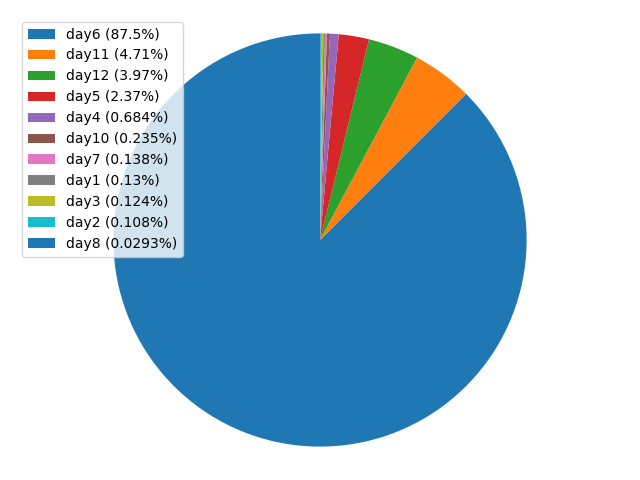
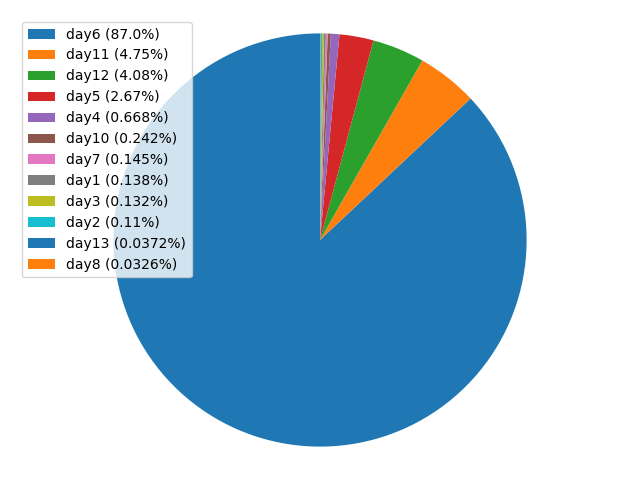
day 13

diff --git a/aoc/days/day13.py b/aoc/days/day13.py
@@ -1,0 +1,122 @@
+from pathlib import Path
+from aoc.util import read, file, bench, env
+
+CURR_DAY: int = 13
+INPUT_FILE_PATH: Path = file.input_path(CURR_DAY)
+TEST_FILE_PATH: Path = file.test_path(CURR_DAY)
+ONLY_TESTS: bool = env.is_set("TEST")
+
+
+class Machine:
+
+    def __init__(self) -> None:
+        # uninizialized
+        self.a: tuple[int, int] = (0, 0)
+        self.b: tuple[int, int] = (0, 0)
+        self.goal: tuple[int, int] = (0, 0)
+
+    def push_a(self, times: int) -> tuple[int, int]:
+        return (self.a[0] * times, self.a[1] * times)
+
+    def push_b(self, times: int) -> tuple[int, int]:
+        return (self.b[0] * times, self.b[1] * times)
+
+    # cramers rule
+    def solve(self) -> tuple[int, int] | None:
+        det = self.a[0] * self.b[1] - self.a[1] * self.b[0]
+        push_a = (self.goal[0] * self.b[1] - self.goal[1] * self.b[0]) // det
+        push_b = (self.goal[1] * self.a[0] - self.goal[0] * self.a[1]) // det
+
+        if (
+            self.a[0] * push_a + self.b[0] * push_b,
+            self.a[1] * push_a + self.b[1] * push_b,
+        ) == self.goal:
+            return (push_a, push_b)
+
+        return None
+
+    def __str__(self) -> str:
+        return f"Button A: {self.a}, Button B: {self.b}, Goal: {self.goal}"
+
+
+def tuple_add(lhs: tuple[int, int], rhs: tuple[int, int]) -> tuple[int, int]:
+    return (lhs[0] + rhs[0], lhs[1] + lhs[1])
+
+
+def parse_val(line: str) -> tuple[int, int]:
+    x: int = int(line[line.find("X") + 2 : line.find(",")])
+    y: int = int(line[line.find("Y") + 2 :])
+    return (x, y)
+
+
+def parse_machines(input: list[str]) -> list[Machine]:
+    ret: list[Machine] = []
+
+    m: Machine = Machine()
+    for line in input:
+        if line.strip() == "":
+            ret.append(m)
+            m = Machine()
+            continue
+        name, vals = line.split(":", 1)
+        if "A" in name:
+            m.a = parse_val(vals)
+        elif "B" in name:
+            m.b = parse_val(vals)
+        else:
+            m.goal = parse_val(vals)
+
+    ret.append(m)
+
+    return ret
+
+
+CONVERSION_ERROR: int = 10000000000000
+
+
+def task2(input: list[str]) -> int:
+    machines: list[Machine] = parse_machines(input)
+
+    tokens: int = 0
+    for m in machines:
+        m.goal = (m.goal[0] + CONVERSION_ERROR, m.goal[1] + CONVERSION_ERROR)
+        ret = m.solve()
+        if ret is not None:
+            push_a, push_b = ret
+
+            tokens += push_a * 3 + push_b
+
+    return tokens
+
+
+def task1(input: list[str]) -> int:
+    machines: list[Machine] = parse_machines(input)
+
+    tokens: int = 0
+    for m in machines:
+        ret = m.solve()
+        if ret is not None:
+            push_a, push_b = ret
+            if push_a > 100 or push_b > 100:
+                continue
+
+            tokens += push_a * 3 + push_b
+
+    return tokens
+
+
+@bench.timer
+def day13() -> None:
+    test: list[str] = read.to_str_list(TEST_FILE_PATH)
+    input: list[str] = read.to_str_list(INPUT_FILE_PATH)
+
+    print("test1:", task1(test))
+    print("test2:", task2(test))
+
+    if not ONLY_TESTS:
+        print("task1:", task1(input))
+        print("task2:", task2(input))
+
+
+if __name__ == "__main__":
+    day13()

diff --git a/README.md b/README.md
@@ -1,7 +1,7 @@
 # Advent of Code 2024
 
-![](https://img.shields.io/badge/stars%20⭐-24-yellow)
-![](https://img.shields.io/badge/days%20completed-12-red)
+![](https://img.shields.io/badge/stars%20⭐-26-yellow)
+![](https://img.shields.io/badge/days%20completed-13-red)
 
 This Repository contains some solutions for advent of code 2024 as well as a CLI to make some things easier.  
 Feel free to use the solutions, as well as the rest of this repo for whatever you want.
